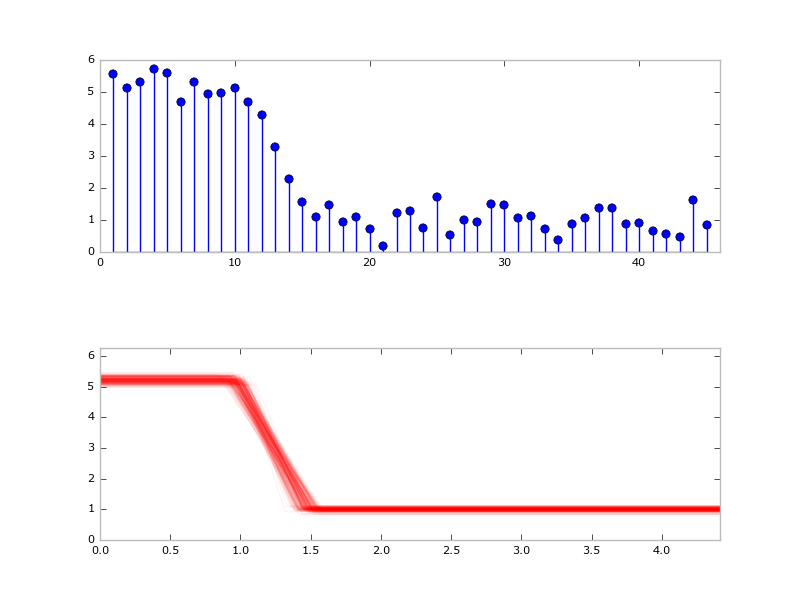
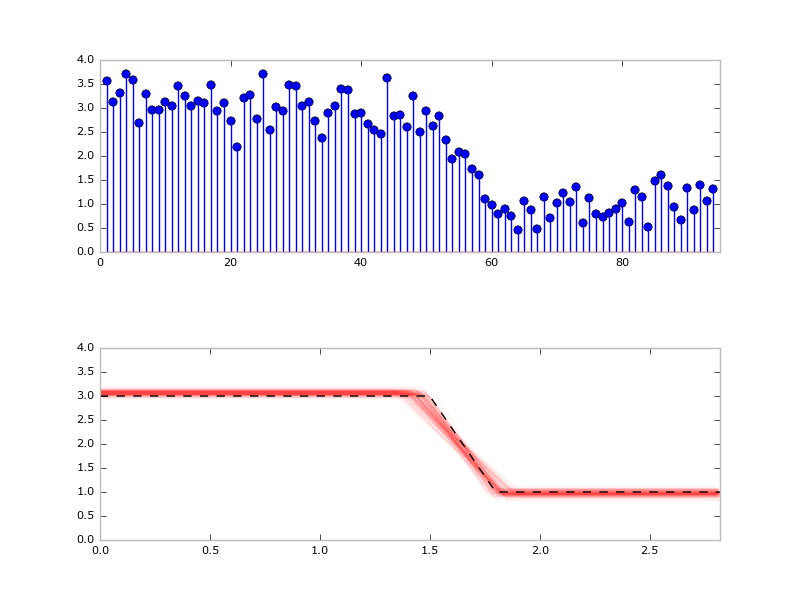
tweak inference parameters

diff --git a/scripts/synth_mh.py b/scripts/synth_mh.py
@@ -17,7 +17,7 @@ T_blank = 0.001
 noise_sigmasq = 1e-1
 
 # set up synthetic trace and frame offset
-times = np.array([2., 2.3])
+times = np.array([1.5, 1.8])
 vals = np.array([3., 1.])
 theta = times, vals
 
@@ -33,7 +33,7 @@ num_frames = int(np.ceil((times[-1] + 1) / T_cycle))
 z = camera_sample(theta, u, num_frames)
 
 # set up prior
-log_prior_density, _ = make_prior((3., 1.), (6., 2.), (12., 2.))
+log_prior_density, _ = make_prior((1., 1./3), (6., 2.), (12., 2.))
 
 # define joint distribution
 def log_p(x):
@@ -67,4 +67,5 @@ for sampled_theta, sampled_u in samples[-1::-50]:
     plot_sample(sampled_theta, sampled_u, color='r', alpha=0.05)
 plot_sample(theta, u, color='k', linestyle='--')
 
+plt.savefig('plots/inference.png')
 plt.show()
